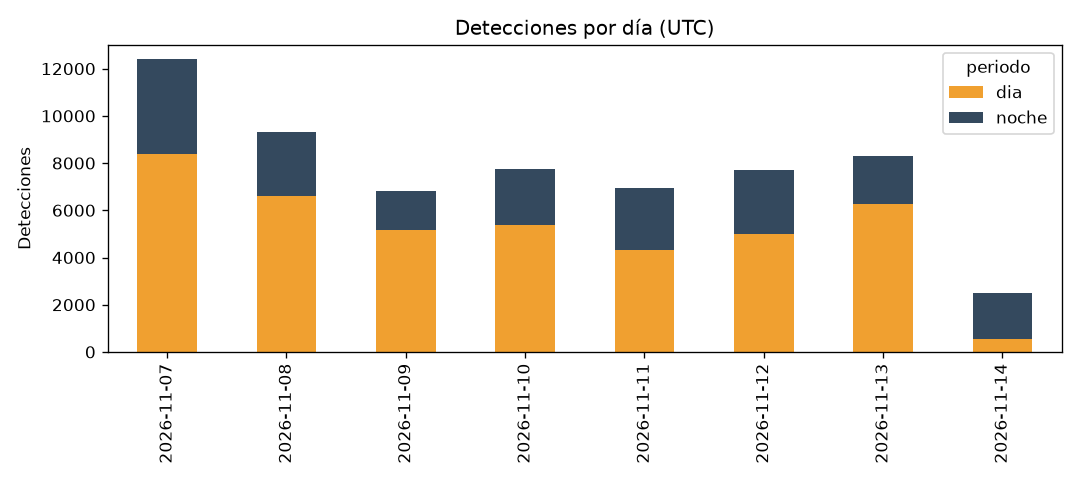
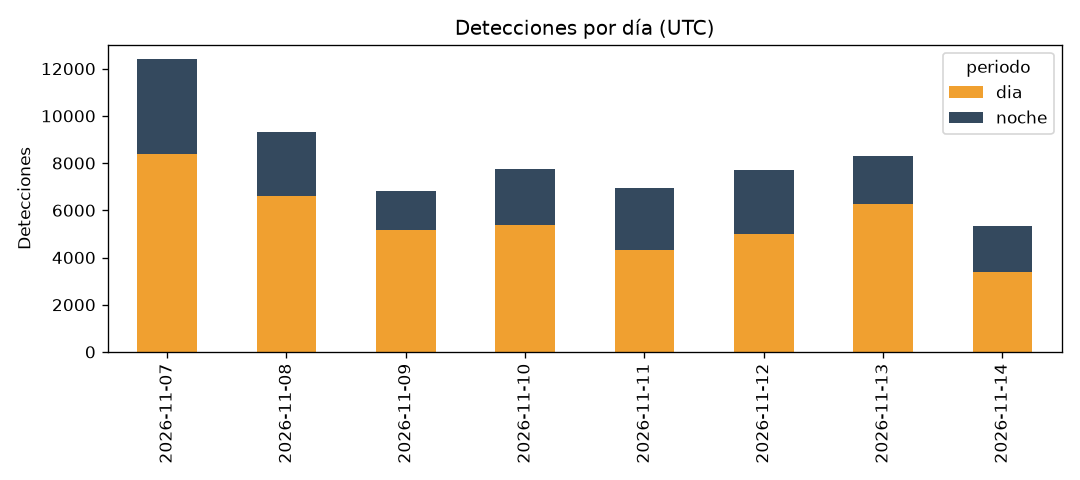
Activa la API de área de FIRMS y actualiza resultados (64.515 detecciones)

Changed region(s): [[0.8861, 0.4688, 0.9778, 0.7188]]

diff --git a/docs/reporte_final.md b/docs/reporte_final.md
@@ -23,18 +23,18 @@ El proyecto tiene dos objetivos:
 
 ## 2. Comprensión de los datos
 
-**Fuente:** NASA FIRMS, sensor VIIRS a bordo del satélite NOAA-20 (producto `VIIRS_NOAA20_NRT`, resolución de 375 m), región Sudamérica.
+**Fuente:** NASA FIRMS, sensor VIIRS a bordo del satélite NOAA-20 (producto `VIIRS_NOAA20_NRT`, resolución de 375 m), región Sudamérica. Se integran dos vías de acceso: la **API de área** (con clave MAP_KEY, máximo 5 días por consulta) y el **feed público de 7 días**.
 
 | Aspecto | Resultado |
 |---|---|
 | Periodo | 7 al 14 de noviembre de 2026 (UTC) |
-| Detecciones | 61.689 únicas (1.703 dentro de la caja de Colombia) |
+| Detecciones | 64.515 únicas (1.805 dentro de la caja de Colombia) |
 | Variables originales | 13: `latitude`, `longitude`, `bright_ti4`, `bright_ti5`, `scan`, `track`, `acq_date`, `acq_time`, `satellite`, `confidence`, `version`, `frp`, `daynight` |
 | Nulos | 0 en las columnas clave |
-| Clases | nominal 54.913 (89 %) · baja 4.378 (7,1 %) · alta 2.398 (3,9 %) |
+| Clases | nominal 57.407 (89,0 %) · baja 4.656 (7,2 %) · alta 2.452 (3,8 %) |
 | Desbalance | ≈ 23:1 entre la clase mayor y la menor |
-| Día / noche | 67,5 % / 32,5 % |
-| FRP (potencia radiativa, MW) | mediana 5,2 · media 9,9 · máx. 709,6 (distribución muy sesgada) |
+| Día / noche | 68,9 % / 31,1 % |
+| FRP (potencia radiativa, MW) | mediana 5,3 · media 10,1 · máx. 770,2 (distribución muy sesgada) |
 
 ![Mapa de detecciones](../incendios_etl/outputs/reports/figures/mapa_detecciones.png)
 
@@ -52,15 +52,15 @@ El proyecto tiene dos objetivos:
 
 | Capa | Qué contiene | Código |
 |---|---|---|
-| **Bronze** | Cada descarga de la API se guarda tal cual en un CSV con fecha y hora en el nombre (`firms_viirs_noaa20_feed_20261114T194756Z.csv`). Nunca se modifica. | `src/extract/extract_firms.py` |
+| **Bronze** | Cada descarga se guarda tal cual en un CSV con su origen y la fecha y hora en el nombre (`firms_viirs_noaa20_api_20261114T204310Z.csv`, `firms_viirs_noaa20_feed_…csv`). Nunca se modifica. | `src/extract/extract_firms.py` |
 | *Validación* | Columnas requeridas, mínimo 100 filas, coordenadas en rango. Si falla, el DAG se detiene y no contamina las capas siguientes. | `src/transform/validate_bronze.py` |
 | **Silver** | Une **todos** los snapshots de Bronze; normaliza la confianza (`l/n/h` de la API y `low/nominal/high` del feed → `baja/nominal/alta`), construye `fecha_hora_utc`, renombra al español, elimina nulos y valores imposibles, y **deduplica** con la llave `(lat, lon, fecha_hora, satélite)`. | `src/transform/clean_firms.py` |
 | **Gold** | Variables derivadas (`dif_brillo = I4 − I5`, `hora_utc`, `es_noche`, celda de 1° × 1°, `en_region_interes`) y resumen diario por celda (número de detecciones, FRP total, medio y máximo, % de confianza alta). | `src/transform/gold_data.py` |
 | **Almacén** | SQLite con modelo en estrella: `fact_detecciones`, `dim_fecha` y `agg_diario_celda`, con índices por fecha y celda. | `src/load/load_datawarehouse.py` |
 
-**Prueba de idempotencia:** el DAG corrió 4 veces. Bronze acumuló 4 snapshots (≈ 246 mil filas en total) y Silver se mantuvo en **61.689 detecciones únicas**. La deduplicación funciona: volver a ejecutar el pipeline no infla los datos.
+**Prueba de idempotencia e integración de fuentes:** el DAG corrió 5 veces. En las 4 primeras (feed público) Bronze acumuló 4 snapshots de 61.689 filas y Silver se mantuvo en **61.689 detecciones únicas**: volver a ejecutar el pipeline no infla los datos. En la quinta se activó la API, que aportó 35.958 filas de los últimos 5 días. Silver pasó a **64.515** detecciones únicas: solo se agregaron las detecciones realmente nuevas (≈ 282 mil filas en Bronze → 64.515 en Silver).
 
-**Partición para el modelo:** 80/20 estratificada con `random_state=42`, es decir, 49.351 detecciones para entrenamiento y 12.338 para prueba. El escalado va dentro de un `Pipeline`, sin fuga de información.
+**Partición para el modelo:** 80/20 estratificada con `random_state=42`, es decir, 51.612 detecciones para entrenamiento y 12.903 para prueba. El escalado va dentro de un `Pipeline`, sin fuga de información.
 
 ## 4. Modelado
 
@@ -73,35 +73,35 @@ El proyecto tiene dos objetivos:
 
 ## 5. Evaluación
 
-### Conjunto de prueba (12.338 detecciones)
+### Conjunto de prueba (12.903 detecciones)
 
 | Modelo | Accuracy | F1 macro | CV F1 macro (3 folds) |
 |---|---|---|---|
-| Regresión logística | 0,708 | 0,697 | 0,692 ± 0,001 |
-| **Random Forest** | **0,975** | **0,936** | **0,937 ± 0,004** |
+| Regresión logística | 0,702 | 0,690 | 0,693 ± 0,002 |
+| **Random Forest** | **0,975** | **0,935** | **0,936 ± 0,002** |
 
 ### Métricas por clase (precisión / recall / F1)
 
 | Clase | Regresión logística | Random Forest |
 |---|---|---|
-| baja | 0,18 / 0,90 / 0,30 | 0,77 / 0,91 / **0,83** |
-| nominal | 0,99 / 0,68 / 0,81 | 0,99 / 0,98 / **0,99** |
-| alta | 0,97 / 1,00 / 0,98 | 0,98 / 0,99 / **0,99** |
+| baja | 0,18 / 0,87 / 0,30 | 0,79 / 0,90 / **0,84** |
+| nominal | 0,99 / 0,68 / 0,80 | 0,99 / 0,98 / **0,99** |
+| alta | 0,95 / 0,99 / 0,97 | 0,98 / 0,98 / **0,98** |
 
 ![Matrices de confusión](../incendios_etl/outputs/reports/figures/matrices_confusion.png)
 
 **Análisis de errores:**
 
-- **Regresión logística:** clasifica 3.514 detecciones nominales como "baja", lo que da una precisión de apenas 0,18 en esa clase. La frontera entre baja y nominal **no es lineal**: la confianza baja se concentra en una banda estrecha de `dif_brillo` (≈ 25–30 K) dentro de la nube nominal.
-- **Random Forest:** reduce esa confusión a 229 casos. Los errores restantes son casi todos **baja ↔ nominal** de día. La clase alta se acierta en el 99 % de los casos.
+- **Regresión logística:** clasifica 3.729 detecciones nominales como "baja", lo que da una precisión de apenas 0,18 en esa clase. La frontera entre baja y nominal **no es lineal**: la confianza baja se concentra en una banda estrecha de `dif_brillo` (≈ 25–30 K) dentro de la nube nominal.
+- **Random Forest:** reduce esa confusión a 218 casos. Los errores restantes son casi todos **baja ↔ nominal** de día. La clase alta se acierta en el 98 % de los casos.
 
 ![Importancia de variables](../incendios_etl/outputs/reports/figures/importancia_variables.png)
 
-Las variables más útiles son `brillo_ti4` (0,33), `dif_brillo` (0,27) y `brillo_ti5` (0,12). Las variables geográficas aportan poco (< 0,04 cada una).
+Las variables más útiles son `brillo_ti4` (0,33), `dif_brillo` (0,27) y `brillo_ti5` (0,11). Las variables geográficas aportan poco (< 0,04 cada una).
 
 ### Decisión
 
-El Random Forest supera al baseline por **+0,239 de F1 macro**, muy por encima del margen mínimo de 0,01. **Se recomienda el Random Forest.** Es el resultado opuesto al Laboratorio 1, donde el baseline empató con el modelo complejo. Aquí la relación entre variables y clase es claramente no lineal, y la complejidad adicional sí se justifica.
+El Random Forest supera al baseline por **+0,245 de F1 macro**, muy por encima del margen mínimo de 0,01. **Se recomienda el Random Forest.** Es el resultado opuesto al Laboratorio 1, donde el baseline empató con el modelo complejo. Aquí la relación entre variables y clase es claramente no lineal, y la complejidad adicional sí se justifica.
 
 ### Interpretación honesta
 
@@ -123,13 +123,14 @@ El nivel de confianza no es una etiqueta independiente, porque **lo calcula el p
 | `manual__2026-11-14T19:49:11` | manual | success |
 | `scheduled__2026-11-14T06:00:00` | programada | success |
 | `manual__2026-11-14T19:50:48` | manual | success |
+| `manual__2026-11-14T20:42:57` | manual, primera con API (MAP_KEY) | success |
 
 - Los modelos se guardan con `joblib` en `incendios_etl/outputs/models/` y las métricas en `outputs/reports/metricas_modelos.json`.
 - **Pruebas:** `tests/test_pipeline.py` tiene 6 pruebas, todas aprobadas. Cubren la limpieza, la deduplicación entre snapshots, la agregación Gold, la carga al almacén, la construcción de URL API/feed y el rechazo de respuestas inválidas de la API.
 
 ## 7. Limitaciones y trabajo futuro
 
-- **Ventana corta:** el feed público solo trae 7 días. Con la ejecución diaria, Bronze acumula histórico y Silver crece sin duplicados. Para datos históricos se puede usar la API con `FIRMS_MAP_KEY` o el archivo histórico de FIRMS.
+- **Ventana corta:** cada consulta de la API trae como máximo 5 días y el feed público 7. Con la ejecución diaria, Bronze acumula histórico y Silver crece sin duplicados. La API admite además una fecha de inicio, así que encadenando consultas de 5 días se pueden cargar uno o dos meses de datos.
 - **Objetivo con más valor:** integrar en Gold una capa de cobertura del suelo o de áreas protegidas (por ejemplo, Parques Nacionales de Colombia) y predecir **persistencia del fuego** (si una celda tendrá detecciones al día siguiente). Ese objetivo no lo calcula el algoritmo de NASA.
 - **Caja de Colombia:** es un rectángulo aproximado e incluye parte de Venezuela, Ecuador, Perú y Brasil. Se debe reemplazar por el polígono oficial (DANE/IGAC).
 - **Almacén:** SQLite es suficiente para el laboratorio. En producción se cargaría a PostgreSQL usando una `Connection` de Airflow.

diff --git a/README.md b/README.md
@@ -82,19 +82,20 @@ python main.py --sin-extraer   # reprocesa lo que ya hay en Bronze
 python -m pytest -q tests
 ```
 
-### Clave de la API FIRMS (opcional)
+### Clave de la API FIRMS
 
-Sin clave, la extracción usa el **feed público de 7 días** (no requiere registro). Con una clave gratuita (*MAP_KEY*, se solicita en https://firms.modaps.eosdis.nasa.gov/api/map_key/) se usa la **API de área**, que permite elegir la caja geográfica y el número de días. Se pone en `airflow-incendios/.env` como `FIRMS_MAP_KEY=...` y nunca se sube al repositorio.
+El pipeline usa la **API de área de FIRMS**, que requiere una clave gratuita (*MAP_KEY*, se solicita en https://firms.modaps.eosdis.nasa.gov/api/map_key/). La clave permite 5.000 consultas cada 10 minutos y hasta 5 días por consulta. Cada integrante pone su propia clave en `airflow-incendios/.env` como `FIRMS_MAP_KEY=...`. **La clave es personal: `.env` está en `.gitignore` y nunca se sube al repositorio.** Si no hay clave, la extracción usa automáticamente el **feed público de 7 días**, que no requiere registro.
 
 ## Resultados (ejecución en Airflow del 14-nov-2026)
 
 | | |
 |---|---|
-| Detecciones únicas (7–14 nov 2026) | **61.689** en Sudamérica, de ellas 1.703 en Colombia |
-| Ejecuciones del DAG | 4 (3 manuales + 1 programada), todas `success` |
-| Almacén | `fact_detecciones` 61.689 · `dim_fecha` 8 · `agg_diario_celda` 4.562 |
-| Regresión logística (baseline) | F1 macro **0,697** · accuracy 0,708 |
-| Random Forest | F1 macro **0,936** · accuracy 0,975 · CV 0,937 ± 0,004 |
+| Fuentes integradas | API de área de FIRMS (con MAP_KEY) + feed público de 7 días |
+| Detecciones únicas (7–14 nov 2026) | **64.515** en Sudamérica, de ellas 1.805 en Colombia |
+| Ejecuciones del DAG | 5 (4 manuales + 1 programada), todas `success` |
+| Almacén | `fact_detecciones` 64.515 · `dim_fecha` 8 · `agg_diario_celda` 4.737 |
+| Regresión logística (baseline) | F1 macro **0,690** · accuracy 0,702 |
+| Random Forest | F1 macro **0,935** · accuracy 0,975 · CV 0,936 ± 0,002 |
 | Modelo recomendado | **Random Forest** (+0,24 F1, supera el margen mínimo de 0,01) |
 
 El análisis completo está en [docs/reporte_final.md](docs/reporte_final.md).

diff --git a/docs/scrum/retrospectiva.md b/docs/scrum/retrospectiva.md
@@ -7,12 +7,12 @@
 - **El análisis exploratorio previo al modelo** reveló que la confianza "alta" equivale a saturación del sensor. Así interpretamos bien el resultado, sin presentar un 0,94 de F1 como un logro mayor de lo que es.
 
 ## ¿Qué se puede mejorar?
-- **Ventana corta:** el feed público solo cubre 7 días, así que el histórico depende de que el DAG corra a diario. Conviene solicitar la `MAP_KEY` y descargar más días desde el inicio.
+- **Ventana corta:** el feed público solo cubre 7 días, así que el histórico depende de que el DAG corra a diario. *Actualización:* el equipo obtuvo la `MAP_KEY` y el DAG ya usa la API de área. La clave se maneja como secreto en `.env` y no se publica.
 - **Elección del objetivo:** se eligió una variable objetivo que el algoritmo de NASA ya calcula. Un objetivo de negocio (persistencia del fuego, PB-13) habría aportado más.
 - **Advertencias de entorno:** al usar Git Bash en Windows, `docker compose exec` convierte las rutas (`/opt/...` → `C:/Program Files/Git/opt/...`). Se resolvió con `MSYS_NO_PATHCONV=1`. Conviene documentarlo para el equipo.
 - **Versiones:** scikit-learn difiere entre el entorno local y la imagen de Airflow, y eso cambia levemente las métricas (F1 del RF 0,932 local vs 0,936 en Airflow). Hay que fijar versiones en ambos `requirements`.
 
 ## Acciones para el próximo sprint
 1. Fijar versiones exactas de dependencias en `requirements.txt` y `requirements-airflow.txt`.
-2. Solicitar la `FIRMS_MAP_KEY` y ampliar la ventana histórica.
+2. ~~Solicitar la `FIRMS_MAP_KEY`~~ (hecho). Pendiente: ampliar la ventana histórica con consultas por fecha a la API.
 3. Implementar PB-13 (persistencia del fuego) usando el resumen diario por celda de la capa Gold.
